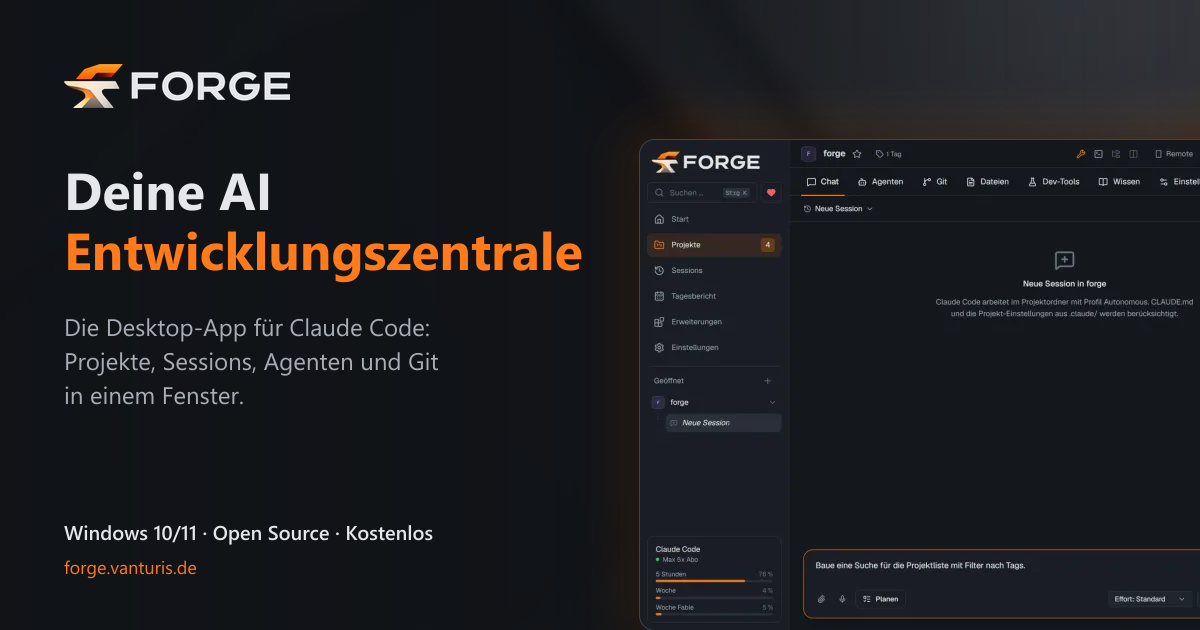
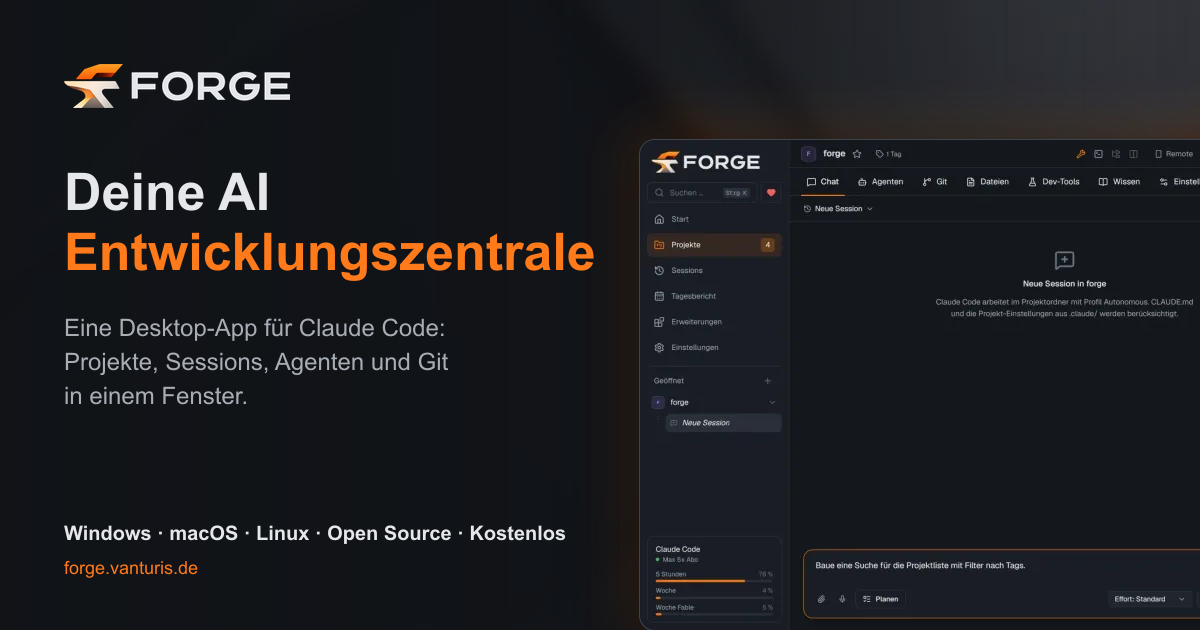
Website und Doku: Plattformangaben aktualisiert, Anthropic-Hinweis ergänzt
- Banner (DE/EN) und Installer-Texte: "Die Desktop-App" zu "Eine Desktop-App", Chips zeigen Windows, macOS und Linux
- README: Versions-Badge mit sort=semver, Anthropic-Hinweis im Footer
- Website: Footer-Hinweis "unabhängiges Projekt" in Layout und Messages (DE/EN), Meta-Texte und OG-Alt angepasst
- OG-Bilder und Social-Preview neu erzeugt

diff --git a/services/stats/src/lib/messages.ts b/services/stats/src/lib/messages.ts
@@ -8,7 +8,7 @@ const de = {
   meta: {
     title: "FORGE: Desktop-App und Oberfläche für Claude Code unter Windows, macOS und Linux",
     description:
-      "FORGE ist die kostenlose Open-Source-Oberfläche für Claude Code. Sessions, parallele Agenten in Git-Worktrees, Git, Vorschau und Projektwissen in einem Fenster. Für Windows, macOS und Linux.",
+      "FORGE ist eine kostenlose Open-Source-Oberfläche für Claude Code. Sessions, parallele Agenten in Git-Worktrees, Git, Vorschau und Projektwissen in einem Fenster. Für Windows, macOS und Linux.",
     keywords: [
       "Claude Code",
       "Claude Code GUI",
@@ -23,7 +23,7 @@ const de = {
       "Anthropic Claude",
       "FORGE",
     ],
-    ogAlt: "FORGE, die Desktop-App für Claude Code: Projekte, Sessions, Agenten und Git in einem Fenster",
+    ogAlt: "FORGE, eine Desktop-App für Claude Code: Projekte, Sessions, Agenten und Git in einem Fenster",
     appDescription: "Desktop-App für Claude Code mit Sessions, parallelen Agenten in Git-Worktrees, Git, Vorschau und Projektwissen.",
   },
   statsMeta: {
@@ -185,6 +185,7 @@ const de = {
   },
   footer: {
     license: "FORGE ist ein Open-Source-Produkt der Vanturis UG (haftungsbeschränkt), lizenziert unter AGPL-3.0.",
+    disclaimer: "FORGE ist ein unabhängiges Projekt und nicht mit Anthropic verbunden. Claude und Claude Code sind Marken von Anthropic, PBC.",
     imprint: "Impressum",
     privacy: "Datenschutz",
   },
@@ -242,9 +243,9 @@ export type Messages = typeof de;
 
 const en: Messages = {
   meta: {
-    title: "FORGE: The desktop app and GUI for Claude Code on Windows, macOS and Linux",
+    title: "FORGE: A desktop app and GUI for Claude Code on Windows, macOS and Linux",
     description:
-      "FORGE is the free, open source GUI for Claude Code. Sessions, parallel agents in Git worktrees, Git, preview and project knowledge in one window. For Windows, macOS and Linux.",
+      "FORGE is a free, open source GUI for Claude Code. Sessions, parallel agents in Git worktrees, Git, preview and project knowledge in one window. For Windows, macOS and Linux.",
     keywords: [
       "Claude Code",
       "Claude Code GUI",
@@ -259,7 +260,7 @@ const en: Messages = {
       "Anthropic Claude",
       "FORGE",
     ],
-    ogAlt: "FORGE, the desktop app for Claude Code: projects, sessions, agents and Git in one window",
+    ogAlt: "FORGE, a desktop app for Claude Code: projects, sessions, agents and Git in one window",
     appDescription: "Desktop app for Claude Code with sessions, parallel agents in Git worktrees, Git, preview and project knowledge.",
   },
   statsMeta: {
@@ -421,6 +422,7 @@ const en: Messages = {
   },
   footer: {
     license: "FORGE is an open-source product of Vanturis UG (haftungsbeschränkt), licensed under AGPL-3.0.",
+    disclaimer: "FORGE is an independent project and not affiliated with Anthropic. Claude and Claude Code are trademarks of Anthropic, PBC.",
     imprint: "Legal notice",
     privacy: "Privacy policy",
   },

diff --git a/apps/installer/ui/app.js b/apps/installer/ui/app.js
@@ -22,7 +22,7 @@ const TEXT = {
     title: (v) => `Install FORGE ${v}`,
     titleUpdate: (v) => `Update to FORGE ${v}`,
     titleSame: (v) => `FORGE ${v} is already installed`,
-    lead: "The desktop app for Claude Code. Git, Node.js, GitHub CLI and Python are included.",
+    lead: "A desktop app for Claude Code. Git, Node.js, GitHub CLI and Python are included.",
     leadUpdate: (old) => `FORGE ${old} is installed. Projects and settings are kept.`,
     leadSame: "Reinstalling replaces the program files. Projects and settings are kept.",
     downloadSize: (mb) => `${mb} MB`,
@@ -79,7 +79,7 @@ const TEXT = {
     title: (v) => `FORGE ${v} installieren`,
     titleUpdate: (v) => `Auf FORGE ${v} aktualisieren`,
     titleSame: (v) => `FORGE ${v} ist schon installiert`,
-    lead: "Die Desktop-App für Claude Code. Git, Node.js, GitHub CLI und Python sind dabei.",
+    lead: "Eine Desktop-App für Claude Code. Git, Node.js, GitHub CLI und Python sind dabei.",
     leadUpdate: (old) => `FORGE ${old} ist installiert. Projekte und Einstellungen bleiben erhalten.`,
     leadSame: "Neu installieren ersetzt die Programmdateien. Projekte und Einstellungen bleiben erhalten.",
     downloadSize: (mb) => `${mb} MB`,

diff --git a/.github/assets/banner/banner.de.html b/.github/assets/banner/banner.de.html
@@ -8,10 +8,10 @@
 <body>
 <div class="banner">
   <img class="wordmark" src="../../../apps/desktop/src/assets/forge-logo.png" alt="FORGE">
-  <h1>Die Desktop-App<br>für <em>Claude Code</em></h1>
+  <h1>Eine Desktop-App<br>für <em>Claude Code</em></h1>
   <p class="lead">Sessions, parallele Agenten in Git-Worktrees, Git, Vorschau der<br>Web-App und Projektwissen in einem Fenster.</p>
   <div class="chips">
-    <span class="chip"><b>Windows</b> 10 und 11</span>
+    <span class="chip"><b>Windows</b> · <b>macOS</b> · <b>Linux</b></span>
     <span class="chip"><b>Open Source</b> AGPL-3.0</span>
     <span class="chip">Mit deinem <b>Claude-Abo</b></span>
   </div>

diff --git a/.github/assets/banner/banner.en.html b/.github/assets/banner/banner.en.html
@@ -8,10 +8,10 @@
 <body>
 <div class="banner">
   <img class="wordmark" src="../../../apps/desktop/src/assets/forge-logo.png" alt="FORGE">
-  <h1>The desktop app<br>for <em>Claude Code</em></h1>
+  <h1>A desktop app<br>for <em>Claude Code</em></h1>
   <p class="lead">Sessions, parallel agents in Git worktrees, Git, web app preview<br>and project knowledge in one window.</p>
   <div class="chips">
-    <span class="chip"><b>Windows</b> 10 and 11</span>
+    <span class="chip"><b>Windows</b> · <b>macOS</b> · <b>Linux</b></span>
     <span class="chip"><b>Open Source</b> AGPL-3.0</span>
     <span class="chip">With your <b>Claude subscription</b></span>
   </div>

diff --git a/services/stats/src/app/layout.tsx b/services/stats/src/app/layout.tsx
@@ -77,6 +77,7 @@ export default async function RootLayout({ children }: { children: ReactNode }) 
               <div className="footer-brand">
                 <Logo label={t.header.home} height={24} base={base} />
                 <p>{t.footer.license}</p>
+                <p>{t.footer.disclaimer}</p>
               </div>
               <div className="footer-side">
                 <nav className="footer-links" aria-label={t.header.nav}>

diff --git a/README.de.md b/README.de.md
@@ -1,11 +1,11 @@
 <a href="README.md"><img src=".github/assets/flags/gb.svg" height="14" alt=""> English</a> · <img src=".github/assets/flags/de.svg" height="14" alt=""> Deutsch
 
 <p align="center">
-  <img src=".github/assets/banner.png" alt="FORGE: Die Desktop-App für Claude Code" width="100%">
+  <img src=".github/assets/banner.png" alt="FORGE: Eine Desktop-App für Claude Code" width="100%">
 </p>
 
 <p align="center">
-  <a href="https://github.com/vanturis/forge/releases/latest"><img src="https://img.shields.io/github/v/release/vanturis/forge?style=for-the-badge&label=Version&color=f97316" alt="Neueste Version"></a>
+  <a href="https://github.com/vanturis/forge/releases/latest"><img src="https://img.shields.io/github/v/release/vanturis/forge?sort=semver&style=for-the-badge&label=Version&color=f97316" alt="Neueste Version"></a>
   <a href="https://github.com/vanturis/forge/releases/latest"><img src="https://img.shields.io/badge/dynamic/json?url=https%3A%2F%2Fforge.vanturis.de%2Fapi%2Fv1%2Fdownloads&query=%24.downloads&label=Downloads&style=for-the-badge&color=21262e" alt="Downloads des Installers"></a>
   <a href="LICENSE.md"><img src="https://img.shields.io/badge/Lizenz-AGPL--3.0-21262e?style=for-the-badge" alt="Lizenz AGPL-3.0"></a>
   <a href="https://forge.vanturis.de/stats"><img src="https://img.shields.io/badge/FORGE-in%20Zahlen-21262e?style=for-the-badge&logo=googleanalytics&logoColor=white" alt="FORGE in Zahlen"></a>
@@ -304,5 +304,6 @@ Weitere Dokumentation: [Architektur](docs/ARCHITECTURE.de.md) · [Sicherheitskon
 ---
 
 <p align="center">
-  <sub>Ein Produkt der <a href="https://vanturis.de">Vanturis UG (haftungsbeschränkt)</a> · <a href="https://vanturis.de/impressum">Impressum</a> · <a href="https://vanturis.de/datenschutz">Datenschutz</a></sub>
+  <sub>Ein Produkt der <a href="https://vanturis.de">Vanturis UG (haftungsbeschränkt)</a> · <a href="https://vanturis.de/impressum">Impressum</a> · <a href="https://vanturis.de/datenschutz">Datenschutz</a></sub><br>
+  <sub>FORGE ist ein unabhängiges Projekt und nicht mit Anthropic verbunden oder von Anthropic unterstützt. Claude und Claude Code sind Marken von Anthropic, PBC.</sub>
 </p>

diff --git a/README.md b/README.md
@@ -1,11 +1,11 @@
 <img src=".github/assets/flags/gb.svg" height="14" alt=""> English · <a href="README.de.md"><img src=".github/assets/flags/de.svg" height="14" alt=""> Deutsch</a>
 
 <p align="center">
-  <img src=".github/assets/banner-en.png" alt="FORGE: the desktop app for Claude Code" width="100%">
+  <img src=".github/assets/banner-en.png" alt="FORGE: a desktop app for Claude Code" width="100%">
 </p>
 
 <p align="center">
-  <a href="https://github.com/vanturis/forge/releases/latest"><img src="https://img.shields.io/github/v/release/vanturis/forge?style=for-the-badge&label=Version&color=f97316" alt="Latest version"></a>
+  <a href="https://github.com/vanturis/forge/releases/latest"><img src="https://img.shields.io/github/v/release/vanturis/forge?sort=semver&style=for-the-badge&label=Version&color=f97316" alt="Latest version"></a>
   <a href="https://github.com/vanturis/forge/releases/latest"><img src="https://img.shields.io/badge/dynamic/json?url=https%3A%2F%2Fforge.vanturis.de%2Fapi%2Fv1%2Fdownloads&query=%24.downloads&label=Downloads&style=for-the-badge&color=21262e" alt="Installer downloads"></a>
   <a href="LICENSE.md"><img src="https://img.shields.io/badge/License-AGPL--3.0-21262e?style=for-the-badge" alt="License AGPL-3.0"></a>
   <a href="https://forge.vanturis.de/stats"><img src="https://img.shields.io/badge/FORGE-in%20numbers-21262e?style=for-the-badge&logo=googleanalytics&logoColor=white" alt="FORGE in numbers"></a>
@@ -298,5 +298,6 @@ More documentation: [Architecture](docs/ARCHITECTURE.md) · [Security concept](d
 ---
 
 <p align="center">
-  <sub>A product of <a href="https://vanturis.de">Vanturis UG (haftungsbeschränkt)</a> · <a href="https://vanturis.de/impressum">Imprint</a> · <a href="https://vanturis.de/datenschutz">Privacy policy</a></sub>
+  <sub>A product of <a href="https://vanturis.de">Vanturis UG (haftungsbeschränkt)</a> · <a href="https://vanturis.de/impressum">Imprint</a> · <a href="https://vanturis.de/datenschutz">Privacy policy</a></sub><br>
+  <sub>FORGE is an independent project and not affiliated with or endorsed by Anthropic. Claude and Claude Code are trademarks of Anthropic, PBC.</sub>
 </p>
